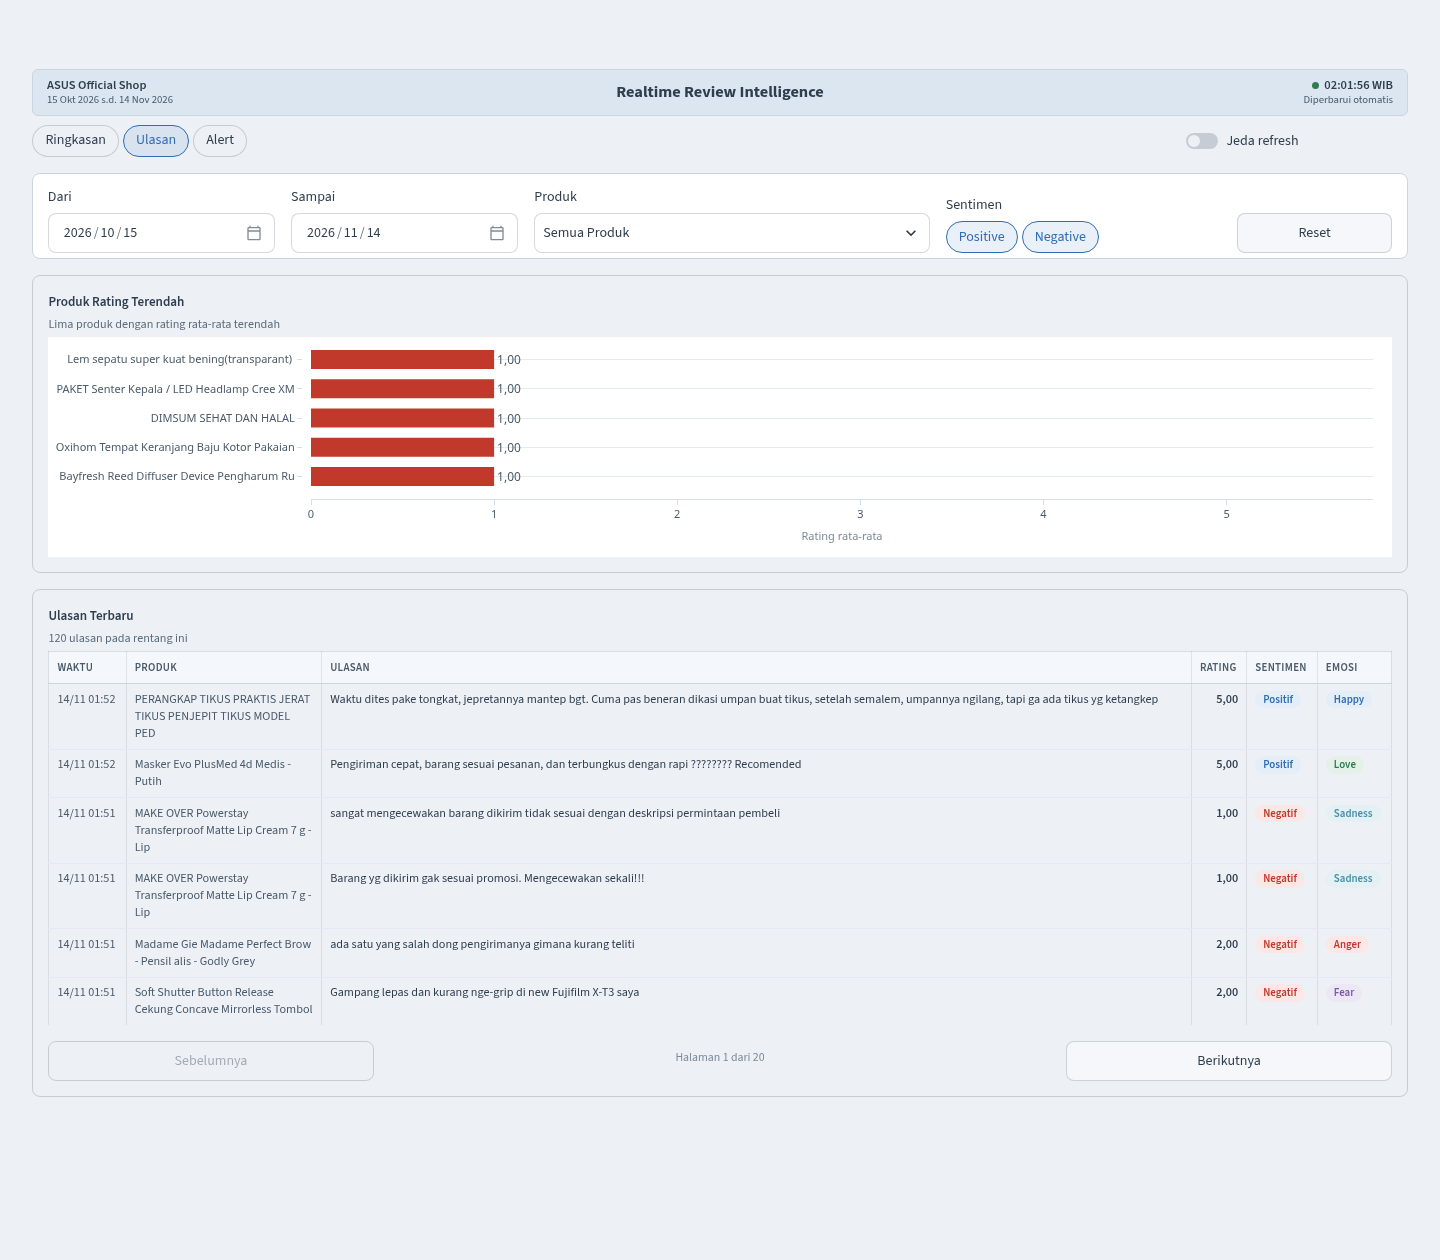
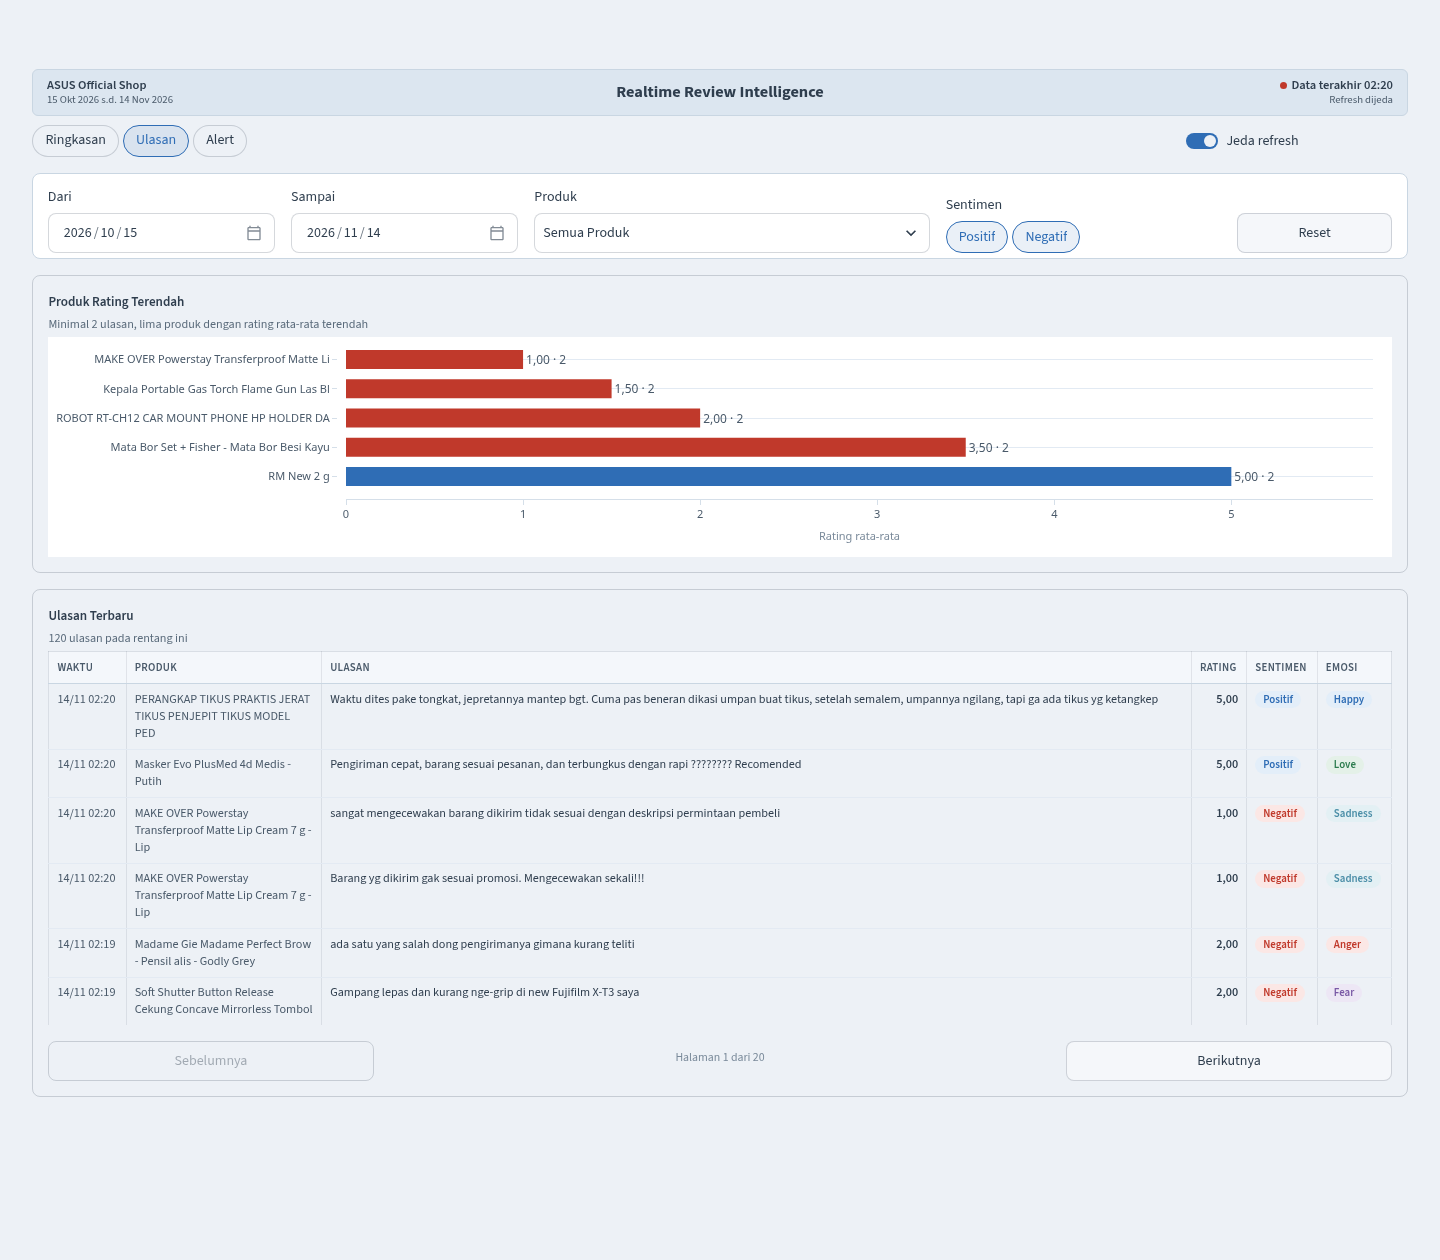
fix(dashboard): address evaluation findings
- show data freshness and staleness in topbar
- make alert KPIs follow sentiment and product filters
- base KPIs on the active range with latest rating bucket
- filter product ranking to at least two reviews
- add reset and active filter details to the empty state
- translate sentiment labels and explain f1 emotion limitation

diff --git a/streaming/services/dashboard/db.py b/streaming/services/dashboard/db.py
@@ -49,6 +49,14 @@ def _build_alert_filter(filters: dict, date_column: str = "triggered_at") -> tup
         conditions.append(f"{date_column} < :date_to + INTERVAL '1 day'")
         params["date_to"] = filters["date_to"]
 
+    if filters.get("product"):
+        conditions.append("(a.review_id IS NULL OR r.product_name = :product)")
+        params["product"] = filters["product"]
+
+    if filters.get("sentiment"):
+        conditions.append("(a.review_id IS NULL OR r.sentiment = ANY(:sentiment))")
+        params["sentiment"] = list(filters["sentiment"])
+
     clause = ("WHERE " + " AND ".join(conditions)) if conditions else ""
     return clause, params
 
@@ -63,30 +71,24 @@ def get_kpi_metrics(filters: dict) -> dict:
             FROM reviews
             {where}
         ),
-        today_window AS (
-            SELECT rating_star, sentiment
+        range_stats AS (
+            SELECT COUNT(*) AS total,
+                   COUNT(*) FILTER (WHERE sentiment = 'Negative') AS neg,
+                   COUNT(*) FILTER (WHERE create_time::date = CURRENT_DATE) AS today
             FROM filtered
-            WHERE create_time::date = CURRENT_DATE
         ),
-        yesterday_window AS (
-            SELECT rating_star, sentiment
+        buckets AS (
+            SELECT date_bin('10 minutes', create_time, TIMESTAMP 'epoch') AS bucket,
+                   AVG(rating_star) AS avg_rating
             FROM filtered
-            WHERE create_time::date = CURRENT_DATE - 1
+            GROUP BY 1
         ),
-        last_10min AS (
-            SELECT AVG(rating_star) AS avg_now
-            FROM filtered
-            WHERE create_time >= NOW() - INTERVAL '10 minutes'
-        ),
-        prev_10min AS (
-            SELECT AVG(rating_star) AS avg_prev
-            FROM filtered
-            WHERE create_time >= NOW() - INTERVAL '20 minutes'
-              AND create_time <  NOW() - INTERVAL '10 minutes'
-        ),
+        latest AS (SELECT bucket, avg_rating FROM buckets ORDER BY bucket DESC LIMIT 1),
+        prev AS (SELECT avg_rating FROM buckets ORDER BY bucket DESC OFFSET 1 LIMIT 1),
         alerts_filtered AS (
             SELECT COUNT(*) AS cnt
-            FROM alerts
+            FROM alerts a
+            LEFT JOIN reviews r ON a.review_id = r.id
             {alert_where}
         ),
         active_models AS (
@@ -95,12 +97,12 @@ def get_kpi_metrics(filters: dict) -> dict:
             WHERE is_active = TRUE
         )
         SELECT
-            (SELECT COUNT(*) FROM today_window)                                        AS total_today,
-            (SELECT COUNT(*) FROM yesterday_window)                                    AS total_yesterday,
-            (SELECT COUNT(*) FROM today_window WHERE sentiment = 'Negative')            AS neg_today,
-            (SELECT COUNT(*) FROM yesterday_window WHERE sentiment = 'Negative')        AS neg_yesterday,
-            (SELECT avg_now  FROM last_10min)                                          AS avg_rating_now,
-            (SELECT avg_prev FROM prev_10min)                                          AS avg_rating_prev,
+            (SELECT total FROM range_stats)                                            AS total_range,
+            (SELECT neg FROM range_stats)                                              AS neg_range,
+            (SELECT today FROM range_stats)                                            AS total_today,
+            (SELECT bucket FROM latest)                                                AS bucket,
+            (SELECT avg_rating FROM latest)                                            AS avg_now,
+            (SELECT avg_rating FROM prev)                                              AS avg_prev,
             (SELECT cnt FROM alerts_filtered)                                          AS alert_count,
             (SELECT f1_score_macro FROM active_models WHERE task_type = 'sentiment')   AS f1_sentiment,
             (SELECT f1_score_macro FROM active_models WHERE task_type = 'emotion')     AS f1_emotion
@@ -108,29 +110,30 @@ def get_kpi_metrics(filters: dict) -> dict:
     with engine.connect() as conn:
         row = conn.execute(text(sql), {**params, **alert_params}).fetchone()
 
-    total_today     = row[0] or 0
-    total_yesterday = row[1] or 0
-    neg_today       = row[2] or 0
-    neg_yesterday   = row[3] or 0
-    avg_now         = float(row[4]) if row[4] is not None else None
-    avg_prev        = float(row[5]) if row[5] is not None else None
-    alert_count     = row[6] or 0
-    f1_sentiment    = float(row[7]) if row[7] is not None else None
-    f1_emotion      = float(row[8]) if row[8] is not None else None
+    total_range = row[0] or 0
+    neg_range = row[1] or 0
+    total_today = row[2] or 0
+    bucket = row[3]
+    avg_now = float(row[4]) if row[4] is not None else None
+    avg_prev = float(row[5]) if row[5] is not None else None
+    alert_count = row[6] or 0
+    f1_sentiment = float(row[7]) if row[7] is not None else None
+    f1_emotion = float(row[8]) if row[8] is not None else None
 
-    pct_neg_today     = (neg_today     / total_today     * 100) if total_today     > 0 else 0.0
-    pct_neg_yesterday = (neg_yesterday / total_yesterday * 100) if total_yesterday > 0 else 0.0
+    pct_negative = (neg_range / total_range * 100) if total_range > 0 else 0.0
 
     return {
-        "total_today":         total_today,
-        "total_delta":         total_today - total_yesterday,
-        "pct_negative":        pct_neg_today,
-        "pct_negative_delta":  round(pct_neg_today - pct_neg_yesterday, 1),
-        "avg_rating_now":      avg_now,
-        "avg_rating_delta":    round(avg_now - avg_prev, 2) if avg_now is not None and avg_prev is not None else None,
-        "alert_count":         alert_count,
-        "f1_sentiment":        f1_sentiment,
-        "f1_emotion":          f1_emotion,
+        "total_range": total_range,
+        "neg_range": neg_range,
+        "total_today": total_today,
+        "pct_negative": pct_negative,
+        "avg_rating_now": avg_now,
+        "avg_rating_prev": avg_prev,
+        "avg_rating_delta": round(avg_now - avg_prev, 2) if avg_now is not None and avg_prev is not None else None,
+        "avg_rating_bucket": bucket,
+        "alert_count": alert_count,
+        "f1_sentiment": f1_sentiment,
+        "f1_emotion": f1_emotion,
     }
 
 
@@ -194,7 +197,9 @@ def get_emotion_distribution(filters: dict) -> pd.DataFrame:
 
 
 @st.cache_data(ttl=10)
-def get_top_products_by_rating(filters: dict, limit: int = 5) -> pd.DataFrame:
+def get_top_products_by_rating(
+    filters: dict, limit: int = 5, min_reviews: int = 2
+) -> pd.DataFrame:
     where, params = _build_review_filter(filters)
     sql = f"""
         SELECT
@@ -205,10 +210,12 @@ def get_top_products_by_rating(filters: dict, limit: int = 5) -> pd.DataFrame:
         FROM reviews
         {where}
         GROUP BY product_name
+        HAVING COUNT(*) >= :min_reviews
         ORDER BY avg_rating ASC
         LIMIT :limit
     """
     params["limit"] = limit
+    params["min_reviews"] = min_reviews
     with engine.connect() as conn:
         df = pd.DataFrame(
             conn.execute(text(sql), params).fetchall(),
@@ -315,3 +322,11 @@ def get_alert_breakdown(filters: dict) -> dict:
     with engine.connect() as conn:
         rows = conn.execute(text(sql), params).fetchall()
     return {alert_type: int(total) for alert_type, total in rows}
+
+
+@st.cache_data(ttl=10)
+def get_data_freshness() -> dict:
+    sql = "SELECT MAX(processed_at), MAX(create_time) FROM reviews"
+    with engine.connect() as conn:
+        row = conn.execute(text(sql)).fetchone()
+    return {"processed_at": row[0], "create_time": row[1]}

diff --git a/streaming/services/dashboard/app.py b/streaming/services/dashboard/app.py
@@ -26,6 +26,7 @@ from config import ALL_PRODUCT, AUTO_REFRESH_MS, PAGE_SIZE
 from db import (
     get_active_models,
     get_alert_breakdown,
+    get_data_freshness,
     get_alerts_page,
     get_emotion_distribution,
     get_kpi_metrics,
@@ -88,6 +89,8 @@ if "nav_initialized" not in st.session_state:
     awal = st.query_params.get("halaman")
     if awal in ("Ringkasan", "Ulasan", "Alert"):
         st.session_state.nav_halaman = awal
+    if st.query_params.get("jeda") == "1":
+        st.session_state.paused = True
     st.session_state.nav_initialized = True
 
 paused = st.session_state["paused"]
@@ -101,13 +104,26 @@ def _tanggal_id(nilai: date) -> str:
 
 
 sekarang = datetime.now(ZoneInfo("Asia/Jakarta"))
+freshness = get_data_freshness()
+processed_at = freshness.get("processed_at")
+if processed_at is not None:
+    lag_menit = max(0, int((sekarang - processed_at.astimezone(ZoneInfo("Asia/Jakarta"))).total_seconds() // 60))
+    status_data = "fresh" if lag_menit <= 5 else "warn" if lag_menit <= 15 else "stale"
+    kanan_judul = f"Data terakhir {processed_at.astimezone(ZoneInfo('Asia/Jakarta')):%H:%M}"
+    kanan_sub = "Refresh dijeda" if paused else f"{lag_menit} menit lalu"
+else:
+    status_data = "stale"
+    kanan_judul = "Belum ada data"
+    kanan_sub = "Refresh dijeda" if paused else "Menunggu pipeline"
+
 topbar(
     "ASUS Official Shop",
     f"{_tanggal_id(st.session_state.filter_date_from)} s.d. {_tanggal_id(st.session_state.filter_date_to)}",
     "Realtime Review Intelligence",
-    sekarang.strftime("%H:%M:%S WIB"),
-    "Refresh dijeda" if paused else "Diperbarui otomatis",
+    kanan_judul,
+    kanan_sub,
     paused=paused,
+    status=status_data,
 )
 
 navigasi, kontrol = st.columns([5, 1], vertical_alignment="center")
@@ -141,6 +157,7 @@ with st.container(key="sheet"):
             "Sentimen",
             ["Positive", "Negative"],
             selection_mode="multi",
+            format_func=lambda nilai: "Positif" if nilai == "Positive" else "Negatif",
             key="filter_sentiment",
             on_change=_ensure_sentiment,
         )
@@ -171,6 +188,17 @@ if total_ulasan == 0:
     kosong(
         "Tidak ada ulasan untuk kombinasi filter ini. Longgarkan tanggal, produk, atau sentimen."
     )
+    st.button("Reset filter", key="reset_empty", on_click=_reset_filters)
+    st.caption(
+        "Filter aktif: "
+        + " · ".join(
+            [
+                f"Periode {_tanggal_id(st.session_state.filter_date_from)} s.d. {_tanggal_id(st.session_state.filter_date_to)}",
+                f"Produk {produk_terpilih if produk_terpilih != ALL_PRODUCT else 'semua'}",
+                "Sentimen " + ", ".join("Positif" if v == "Positive" else "Negatif" for v in sentimen_terpilih),
+            ]
+        )
+    )
     st.stop()
 
 
@@ -179,18 +207,20 @@ def halaman_ringkasan(
 ) -> None:
     kolom = st.columns(6, gap="small")
     with kolom[0]:
-        kpi("Total ulasan hari ini", angka(metrics["total_today"]),
-            sub=f"{metrics['total_delta']:+d} vs kemarin")
+        kpi("Total ulasan", angka(metrics["total_range"]),
+            sub=f"{angka(metrics['total_today'])} hari ini")
     with kolom[1]:
         kpi("Sentimen negatif", persen(metrics["pct_negative"]), merah=True,
-            sub=f"{metrics['pct_negative_delta']:+.1f} pp vs kemarin".replace(".", ","))
+            sub=f"{angka(metrics['neg_range'])} dari {angka(metrics['total_range'])} ulasan")
     with kolom[2]:
         if metrics["avg_rating_now"] is None:
-            kpi("Rating rata-rata 10 menit", "—", sub="belum ada data")
+            kpi("Rating 10 menit", "—", sub="belum ada data")
         else:
             delta = metrics["avg_rating_delta"]
-            sub = "—" if delta is None else f"{delta:+.2f} vs 10 menit sebelumnya".replace(".", ",")
-            kpi("Rating rata-rata 10 menit", rating(metrics["avg_rating_now"]), sub=sub)
+            bucket = metrics.get("avg_rating_bucket")
+            waktu_bucket = f"bucket {bucket:%H:%M}" if bucket is not None else "bucket terakhir"
+            sub = waktu_bucket if delta is None else f"{waktu_bucket} · {delta:+.2f}".replace(".", ",")
+            kpi("Rating 10 menit", rating(metrics["avg_rating_now"]), sub=sub)
     with kolom[3]:
         kpi("Alert terkirim", angka(metrics["alert_count"]),
             sub=(f"sentimen {angka(alert_counts.get('sentiment_negative', 0))} · "
@@ -199,12 +229,12 @@ def halaman_ringkasan(
         info = model_info.get("sentiment", {})
         kpi("F1 sentimen",
             f"{info.get('f1', 0):.4f}".replace(".", ",") if info.get("f1") is not None else "—",
-            sub=f"model v{info.get('version', '—')}")
+            sub=f"macro F1 · v{info.get('version', '—')}")
     with kolom[5]:
         info = model_info.get("emotion", {})
         kpi("F1 emosi",
             f"{info.get('f1', 0):.4f}".replace(".", ",") if info.get("f1") is not None else "—",
-            sub=f"model v{info.get('version', '—')}")
+            sub=f"macro F1 · v{info.get('version', '—')}")
 
     df_tren = get_time_series_rating(filters)
     with kartu("Tren Rating", "Rata-rata rating per 10 menit"):
@@ -232,6 +262,12 @@ def halaman_ringkasan(
                 st.plotly_chart(
                     chart_emosi(df_emosi), width="stretch", config=PLOT_CONFIG
                 )
+                f1_emo = model_info.get("emotion", {}).get("f1")
+                if f1_emo is not None:
+                    st.caption(
+                        f"F1 emosi {f1_emo:.2f}".replace(".", ",")
+                        + ", kelas Fear dan Sadness paling sering tertukar."
+                    )
 
     with st.expander("Definisi metrik dan sumber data"):
         st.markdown(
@@ -250,10 +286,13 @@ Sumber data adalah ulasan toko yang dipantau, dialirkan lewat Kafka, diproses de
 
 
 def halaman_ulasan(filters: dict, total: int) -> None:
-    df_produk = get_top_products_by_rating(filters)
-    with kartu("Produk Rating Terendah", "Lima produk dengan rating rata-rata terendah"):
+    df_produk = get_top_products_by_rating(filters, min_reviews=2)
+    with kartu(
+        "Produk Rating Terendah",
+        "Minimal 2 ulasan, lima produk dengan rating rata-rata terendah",
+    ):
         if df_produk.empty:
-            kosong("Belum ada data produk.")
+            kosong("Belum ada produk dengan minimal 2 ulasan pada rentang ini.")
         else:
             st.plotly_chart(chart_produk(df_produk), width="stretch", config=PLOT_CONFIG)
 
@@ -272,7 +311,10 @@ def halaman_ulasan(filters: dict, total: int) -> None:
 
 
 def halaman_alert(filters: dict) -> None:
-    with kartu("Ringkasan Alert", "Filter produk dan sentimen tidak memengaruhi halaman ini"):
+    with kartu(
+        "Ringkasan Alert",
+        "Alert penurunan rating tidak terkait ulasan tertentu, jadi selalu dihitung",
+    ):
         stats_alert(
             [
                 ("Sentimen negatif", angka(alert_counts.get("sentiment_negative", 0)), "ulasan pemicu"),

diff --git a/streaming/services/dashboard/components.py b/streaming/services/dashboard/components.py
@@ -58,7 +58,9 @@ html, body, .stApp, [data-testid="stAppViewContainer"], [data-testid="stMain"] {
 .crm-topbar .right b { display: block; font-size: 0.78rem; color: var(--ink); font-weight: 600; }
 .crm-topbar .live { display: inline-block; width: 7px; height: 7px; border-radius: 50%;
   background: #2E7D4F; margin-right: 5px; vertical-align: middle; }
-.crm-topbar .paused { background: #C0392B; }
+.crm-topbar .live.warn { background: #C58B00; }
+.crm-topbar .live.stale { background: #C0392B; }
+.crm-topbar .live.paused { background: #C0392B; }
 
 .kpi-card {
   background: #FFFFFF;
@@ -127,6 +129,14 @@ div[data-testid="stVerticalBlockBorderWrapper"] {
 .def-table td.metric { color: var(--blue); font-weight: 600; white-space: nowrap; }
 
 div[data-testid="stPills"] button { font-size: 0.78rem; }
+
+@media (max-width: 900px) {
+  [data-testid="stHorizontalBlock"] { flex-wrap: wrap; }
+  [data-testid="column"] { flex: 1 1 46% !important; min-width: 46% !important; }
+  div[data-testid="stPills"] > div { flex-wrap: wrap; }
+  .crm-topbar { grid-template-columns: 1fr; text-align: center; gap: 0.35rem; }
+  .crm-topbar .right { text-align: center; }
+}
 div[data-testid="stVerticalBlockBorderWrapper"] div[data-testid="stDataFrame"] { border: none; }
 </style>
 """
@@ -143,8 +153,9 @@ def topbar(
     kanan_judul: str,
     kanan_sub: str,
     paused: bool = False,
+    status: str = "fresh",
 ) -> None:
-    kelas = "live paused" if paused else "live"
+    kelas = f"live {status}"
     st.markdown(
         f"""
         <div class="crm-topbar">
@@ -248,9 +259,10 @@ def chart_tren(df: pd.DataFrame) -> go.Figure:
 
 
 def chart_sentimen(df: pd.DataFrame) -> go.Figure:
-    labels = df["sentiment"].tolist()
+    raw = df["sentiment"].tolist()
+    labels = ["Positif" if label == "Positive" else "Negatif" for label in raw]
     values = df["count"].tolist()
-    colors = [SENTIMENT_COLORS.get(label, MUTED) for label in labels]
+    colors = [SENTIMENT_COLORS.get(label, MUTED) for label in raw]
     total = sum(values)
     fig = go.Figure(
         go.Pie(
@@ -290,7 +302,7 @@ def chart_emosi(df: pd.DataFrame) -> go.Figure:
 
 
 def chart_produk(df: pd.DataFrame) -> go.Figure:
-    data = df.sort_values("avg_rating", ascending=True)
+    data = df.sort_values("avg_rating", ascending=False)
     labels = [str(name)[:42] for name in data["product_name"]]
     colors = [RED if value < 4 else BLUE for value in data["avg_rating"]]
     fig = go.Figure(
@@ -299,7 +311,7 @@ def chart_produk(df: pd.DataFrame) -> go.Figure:
             y=labels,
             orientation="h",
             marker=dict(color=colors),
-            text=[rating(v) for v in data["avg_rating"]],
+            text=[f"{rating(v)} · {int(n)}" for v, n in zip(data["avg_rating"], data["total_reviews"])],
             textposition="outside",
             customdata=data["total_reviews"],
             hovertemplate="%{y}<br>Rating %{x:.2f} dari %{customdata} ulasan<extra></extra>",
